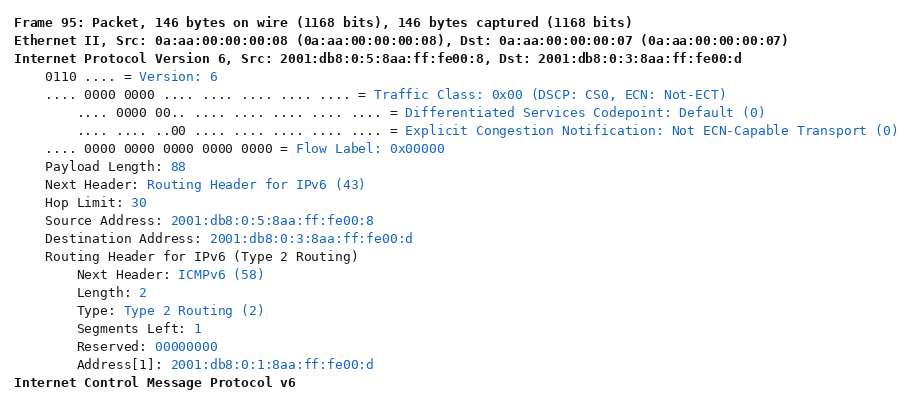
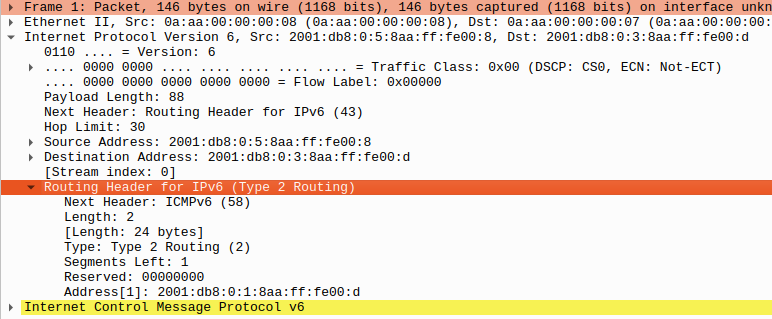
showcases: general/mipv6: screenshot the real Wireshark GUI
The previous commit rendered the two dissections from "tshark -V" text.  These
are screenshots of the Wireshark GUI itself, driven programmatically, so the
figures show the tree widget a reader would see when opening the capture.

Driving it needed two things worth recording, both in the recipes:

  - This desktop is a Wayland session, and XWayland deliberately refuses
    synthetic input from other X clients: XTEST pointer and key injection are
    silently dropped, wmctrl's focus request is ignored, and the pointer never
    moves.  Wireshark is therefore run inside a nested X server (Xephyr),
    where XTEST works because we own the server.
  - QT_QPA_PLATFORM=xcb is required.  Left to itself Qt6 opens a native
    Wayland window, which no X11 tool can see or capture -- the window does
    not even appear in wmctrl's list, which is what made the first attempt
    look like a failed launch.

Hiding the byte-view and packet-diagram panes gives the detail tree the full
window width, which is what stops the addresses truncating; the figures then
come out at 772 px and sit in the text column at roughly 1:1.

Expansion is driven by keyboard from the tree's first row rather than by
clicking rows at measured offsets: the pane splitter is proportional to window
height, so pixel offsets measured before a resize point at the wrong rows.
The inner IPv6 header is expanded before the outer one, since its children
appear below it and leave the outer row in place.
[…]

diff --git a/showcases/general/mipv6/doc/index.rst b/showcases/general/mipv6/doc/index.rst
@@ -939,8 +939,8 @@ own view of it.
    :width: 100%
 
 ..
-   FIGURE RECIPE (redo with INET's PcapRecorder + Wireshark's tshark)
-   type:     wireshark dissection, rendered from tshark -V
+   FIGURE RECIPE (redo with INET's PcapRecorder + the Wireshark GUI)
+   type:     wireshark GUI screenshot of the packet-detail pane
    config:   BidirectionalTunneling   # ../omnetpp.ini
    seed:     default (seed-set=1)
    pcap:     inet -u Cmdenv -c BidirectionalTunneling
@@ -953,10 +953,21 @@ own view of it.
              the recorder aborts with "Cannot serialize Ethernet FCS without a
              properly computed FCS" and writes an empty file.
    frame:    tshark -Y 'ipv6.nxt==41 && icmpv6.type==128' -> first match = frame 159 at t=20.42s
-   render:   tshark -V -O ipv6, then drop (a) Wireshark's generated fields,
-             i.e. lines whose trimmed text is wholly bracketed, and (b) lines
-             indented more than 8 spaces; draw the result with DejaVu Sans
-             Mono 13 px, transparent background; was 912x478
+   gui:      This desktop is Wayland, and XWayland refuses synthetic input from
+             other X clients, so the GUI cannot be driven on the main display.
+             Run it in a nested X server instead:
+               Xephyr :77 -screen 1500x1150 -ac -noreset &
+               DISPLAY=:77 QT_QPA_PLATFORM=xcb wireshark -r <one-frame>.pcap
+             QT_QPA_PLATFORM=xcb matters: under Wayland, Qt6 opens a native
+             Wayland window that X11 tools can neither see nor capture.
+   layout:   in the profile's "recent" file set gui.byte_view_show and
+             gui.packet_diagram_show to false, so the detail tree gets the
+             full window width and the addresses stop truncating.
+   expand:   window 1500x900; click the first tree row to give the pane focus,
+             then per header: Home, Down x N, Right.  N = 3 then 2 -- the inner
+             IPv6 header first, because its children appear below it and so the
+             outer row does not move.
+   capture:  import -window <id>, crop (0,487)-(772,836); was 772x349
    anchor:   two "Internet Protocol Version 6" root lines, the outer one with
              Next Header: IPv6 (41). One root only = the tunnel was not up.
    stamp:    captured 2026-08, INET 4.7, Wireshark 4.6.4
@@ -972,8 +983,8 @@ showed INET's internal identifiers for the same two fields.
    :width: 100%
 
 ..
-   FIGURE RECIPE (redo with INET's PcapRecorder + Wireshark's tshark)
-   type:     wireshark dissection, rendered from tshark -V
+   FIGURE RECIPE (redo with INET's PcapRecorder + the Wireshark GUI)
+   type:     wireshark GUI screenshot of the packet-detail pane
    config:   RouteOptimization   # ../omnetpp.ini
    seed:     default (seed-set=1)
    pcap:     inet -u Cmdenv -c RouteOptimization
@@ -986,10 +997,21 @@ showed INET's internal identifiers for the same two fields.
              the recorder aborts with "Cannot serialize Ethernet FCS without a
              properly computed FCS" and writes an empty file.
    frame:    tshark -Y 'ipv6.routing.type==2 && icmpv6.type==128' -> first match = frame 95 at t=21.92s
-   render:   tshark -V -O ipv6, then drop (a) Wireshark's generated fields,
-             i.e. lines whose trimmed text is wholly bracketed, and (b) lines
-             indented more than 8 spaces; draw the result with DejaVu Sans
-             Mono 13 px, transparent background; was 912x406
+   gui:      This desktop is Wayland, and XWayland refuses synthetic input from
+             other X clients, so the GUI cannot be driven on the main display.
+             Run it in a nested X server instead:
+               Xephyr :77 -screen 1500x1150 -ac -noreset &
+               DISPLAY=:77 QT_QPA_PLATFORM=xcb wireshark -r <one-frame>.pcap
+             QT_QPA_PLATFORM=xcb matters: under Wayland, Qt6 opens a native
+             Wayland window that X11 tools can neither see nor capture.
+   layout:   in the profile's "recent" file set gui.byte_view_show and
+             gui.packet_diagram_show to false, so the detail tree gets the
+             full window width and the addresses stop truncating.
+   expand:   window 1500x900; click the first tree row to give the pane focus,
+             then Home, Down x2, Right (the IPv6 header), then Home, Down x12,
+             Right (the routing header -- it is the tenth child of IPv6, after
+             the generated [Stream index] row, so 2 + 10).
+   capture:  import -window <id>, crop (0,487)-(772,806); was 772x319
    anchor:   one IPv6 root with Next Header: Routing Header for IPv6 (43), and
              Address[1] holding the home address. If the routing header is
              absent, route optimization did not complete.
